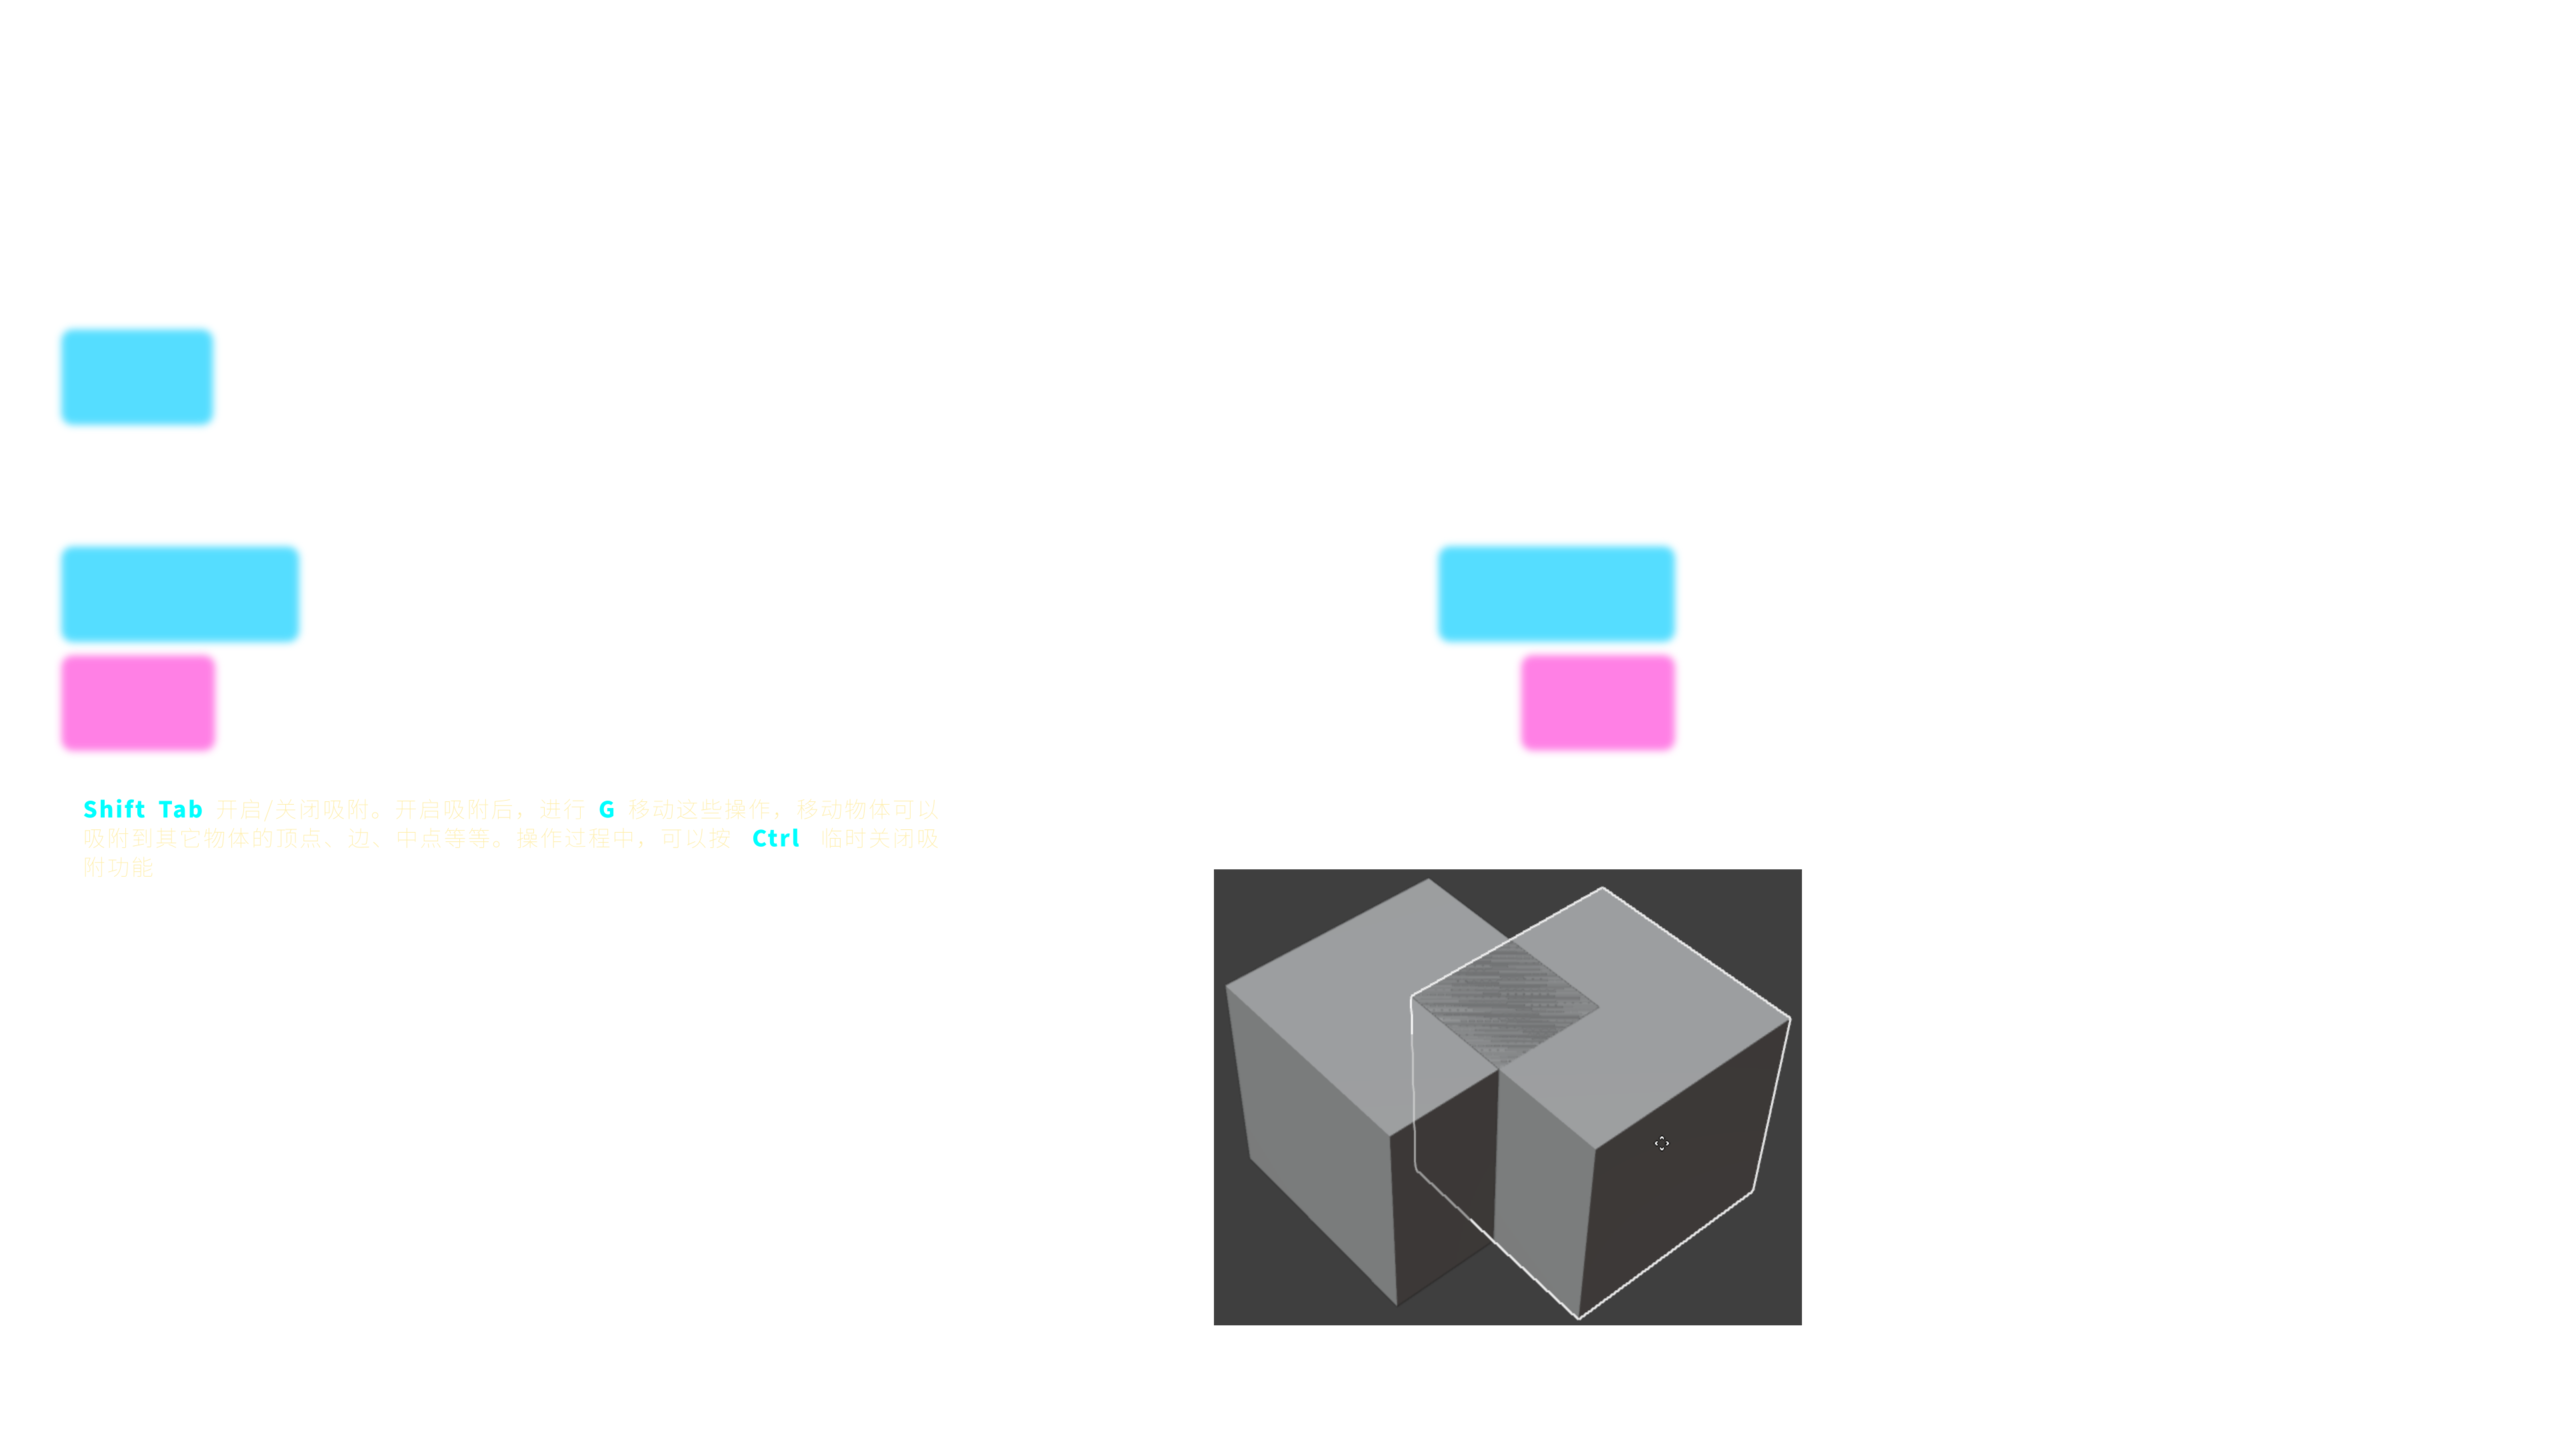
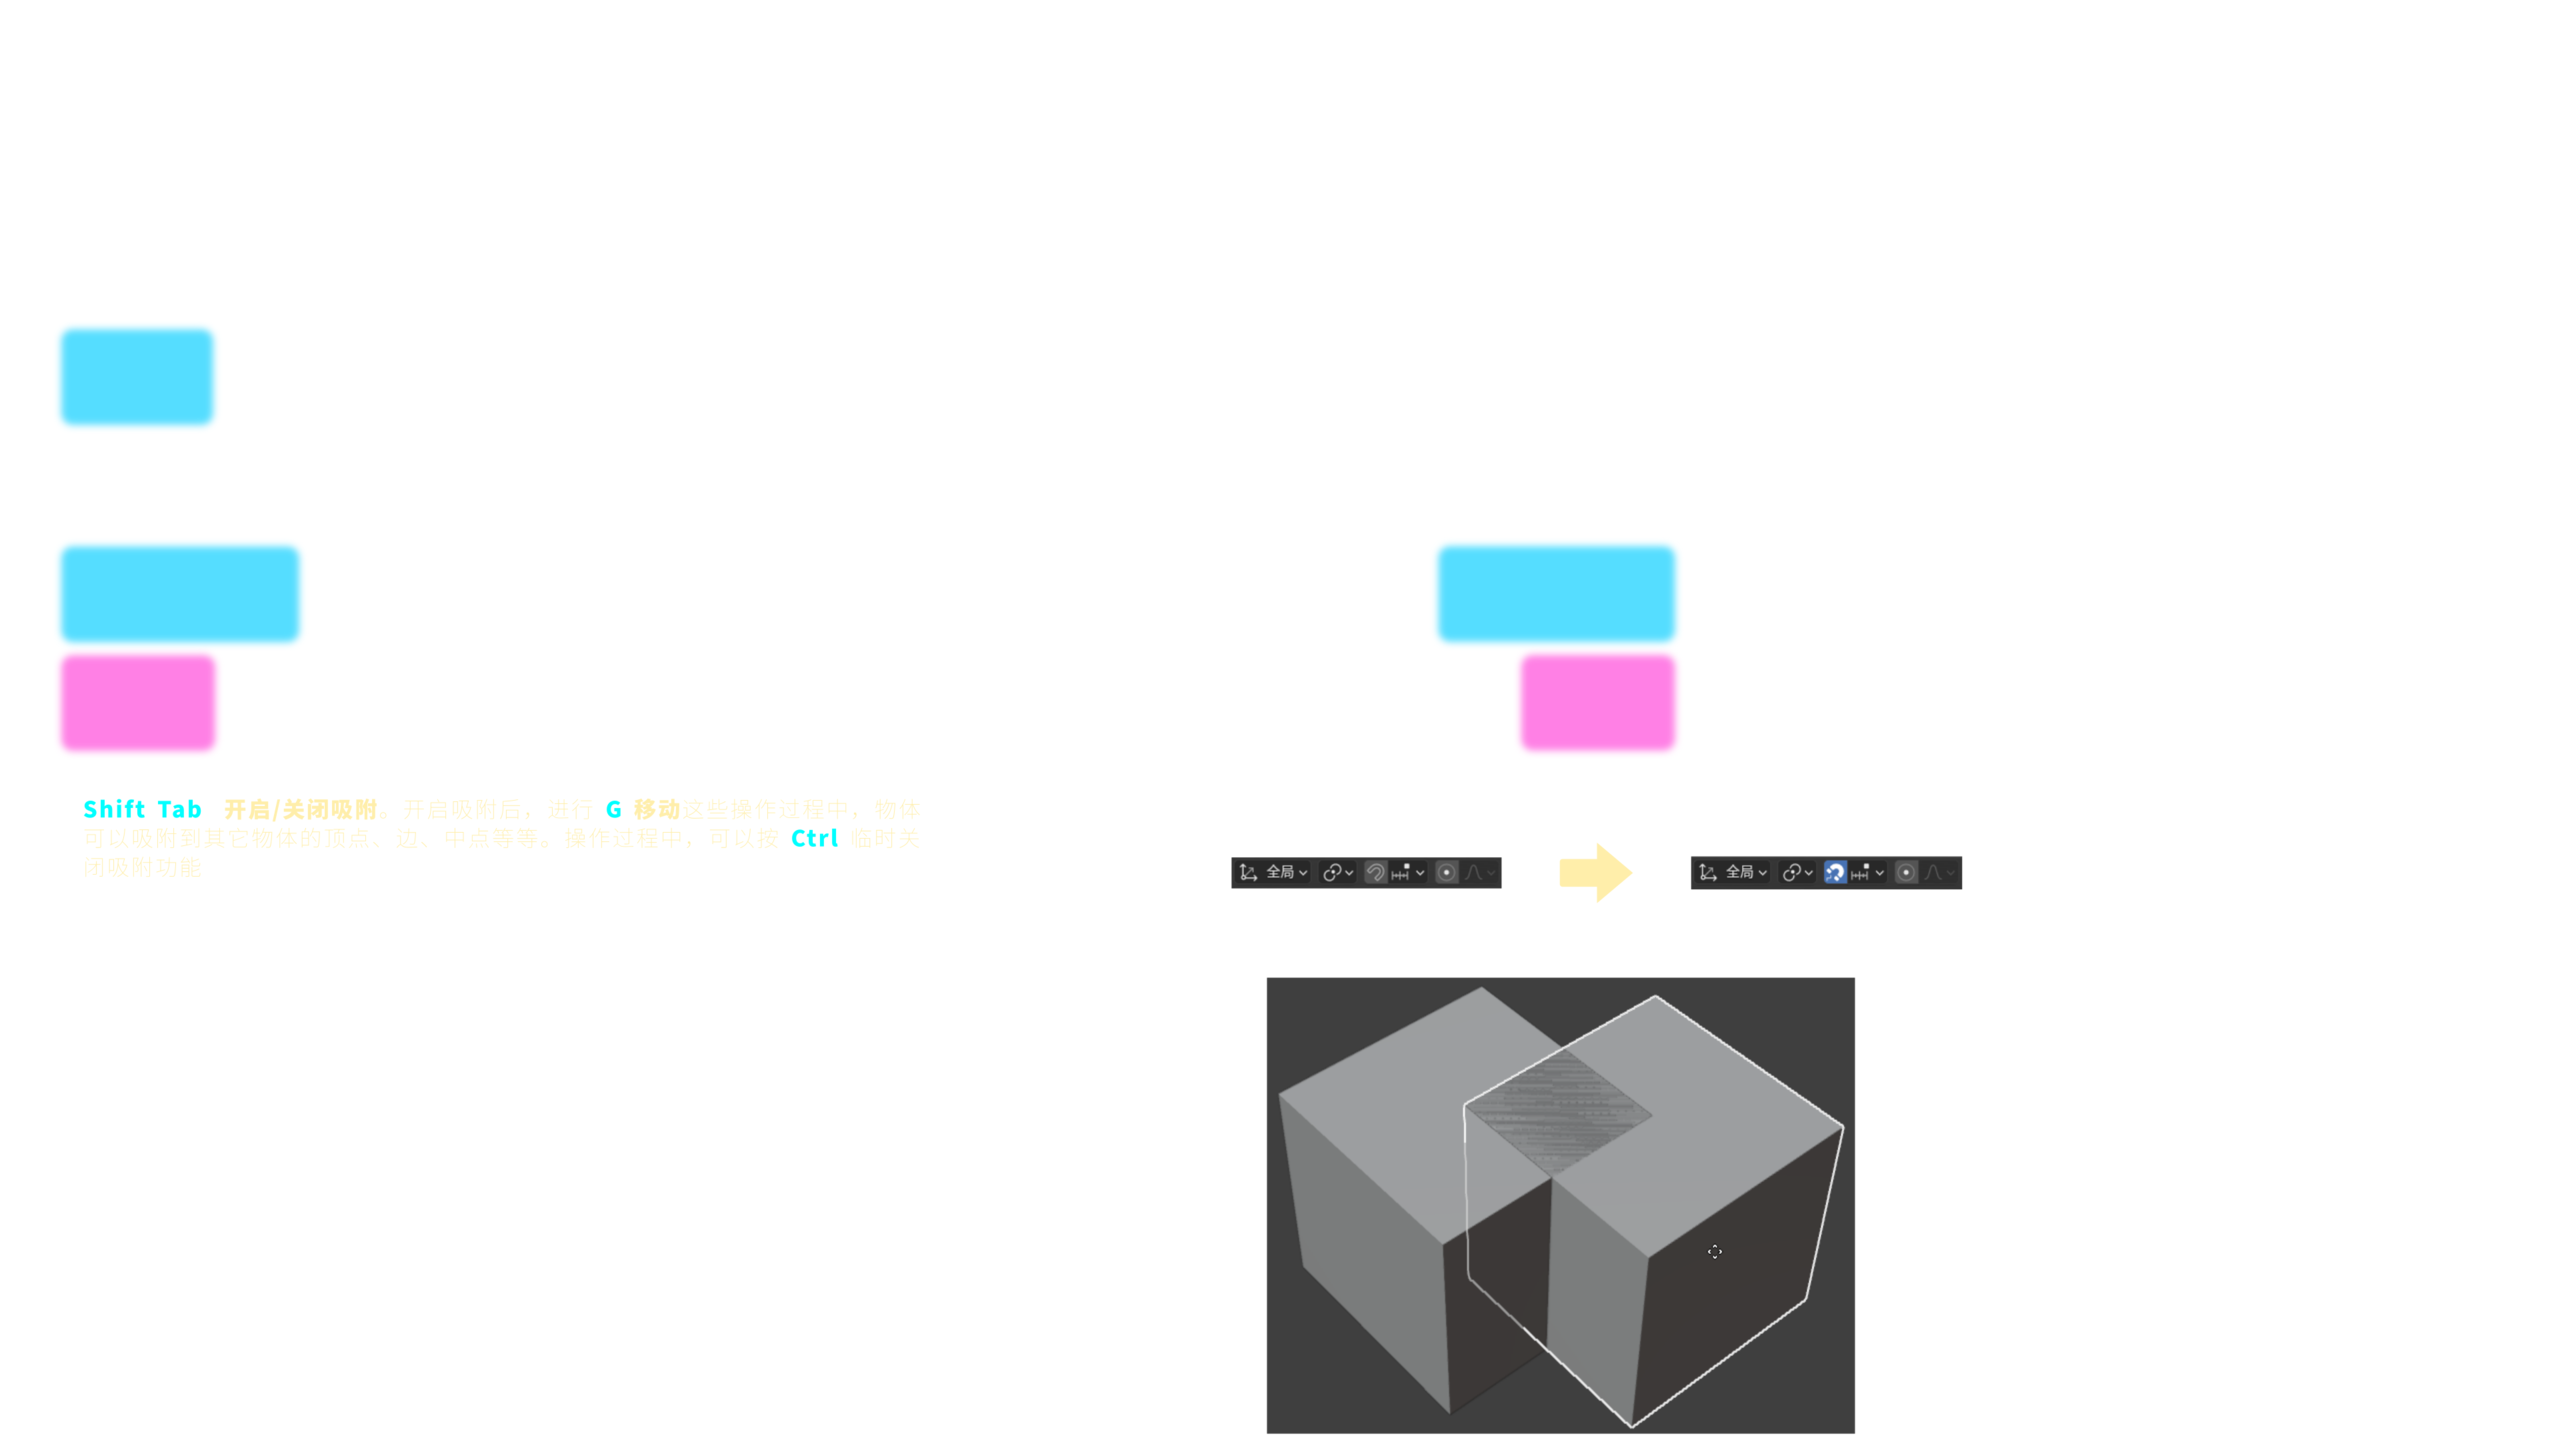
实现不同模式不同显示

Changed region(s): [[0.4688, 0.5938, 0.7812, 1.0], [0.0312, 0.5312, 0.375, 0.625]]

diff --git a/no_shortcut.py b/no_shortcut.py
@@ -15,6 +15,8 @@ def close_gizmo_overlay():
 current_type = None
 current_mode = None
 
+context_mode = None
+
 class NS_OT_no_shortcut(bpy.types.Operator):
     bl_idname = "wm.no_shortcut"
     bl_label = "快捷键提示"
@@ -23,12 +25,13 @@ class NS_OT_no_shortcut(bpy.types.Operator):
 
     @classmethod
     def poll(cls, context):
-        return context.mode == 'OBJECT' or context.active_object.type+context.active_object.mode in {
-            'MESHEDIT'
-            }
+        return context.mode in {'OBJECT','EDIT_MESH'}
 
     def invoke(self, context, event):
-        global current_type,current_mode
+        global current_type,current_mode,context_mode
+
+        context_mode = context.mode
+        bottom_keys.bottom_context_mode = context.mode
 
         current_type = context.active_object.type
         current_mode = context.active_object.mode
@@ -50,11 +53,7 @@ class NS_OT_no_shortcut(bpy.types.Operator):
         context.window_manager.modal_handler_add(self)
         return {'RUNNING_MODAL'}
 
-    def modal(self, context, event):
-        global mouse_click
-
-        typeandmode = bpy.context.active_object.type+bpy.context.active_object.mode
-        
+    def modal(self, context, event):        
         if event.type =='F1':
             draw_keys("F1.png")
             return {'RUNNING_MODAL'}
@@ -101,11 +100,14 @@ class NS_OT_no_shortcut(bpy.types.Operator):
             #return {'RUNNING_MODAL'}
 
         if event.type == 'ONE':
-            draw_keys('1.png')
-            if event.shift :
-                draw_keys('1_SHIFT.png')
-            if event.ctrl :
-                draw_keys('1_CTRL.png')
+            if context_mode == 'OBJECT':
+                draw_keys('1.png')
+                if event.shift :
+                    draw_keys('1_SHIFT.png')
+                if event.ctrl :
+                    draw_keys('1_CTRL.png')
+            elif context_mode == 'EDIT_MESH':
+                draw_keys('1_2_3_EDIT.png')
             return {'RUNNING_MODAL'}
         
         if event.type == 'TWO':
@@ -186,6 +188,8 @@ class NS_OT_no_shortcut(bpy.types.Operator):
                 draw_keys('TAB_CTRL.png')
             if event.shift :
                 draw_keys('TAB_SHIFT.png')
+            if event.ctrl and event.shift:
+                draw_keys('TAB_CTRL_SHIFT.png')
             return {'RUNNING_MODAL'}
         
         if event.type == 'Q':

diff --git a/bottom_keys.py b/bottom_keys.py
@@ -4,6 +4,7 @@ from . import width_height
 from .top_keys import draw_keyboard
 
 mouse_click = None
+bottom_context_mode = None
 
 class DrawBottomKey:
     def __init__(self, image_path):
@@ -98,7 +99,7 @@ class DrawBottomKey:
 bottom_key = None
 
 def draw_keys(image_name):
-    global bottom_key,mouse_click
+    global bottom_key,mouse_click,bottom_context_mode
     if bottom_key:
         bottom_key.cleanup()
         bottom_key = None
@@ -106,10 +107,16 @@ def draw_keys(image_name):
     
     bottom_key = DrawBottomKey(image_name)
     if mouse_click:
-        draw_keyboard("KEYBOARD_OBJECT_MAIN.png")
+        if bottom_context_mode == 'OBJECT':
+            draw_keyboard("KEYBOARD_OBJECT_MAIN.png")
+        elif bottom_context_mode == 'EDIT_MESH':
+            draw_keyboard("KEYBOARD_EDIT_MAIN.png")
         mouse_click = False
     else:
-        draw_keyboard("KEYBOARD_OBJECT.png")
+        if bottom_context_mode == 'OBJECT':
+            draw_keyboard("KEYBOARD_OBJECT.png")
+        elif bottom_context_mode == 'EDIT_MESH':
+            draw_keyboard("KEYBOARD_EDIT.png")
     return bottom_key
 
 def register():
